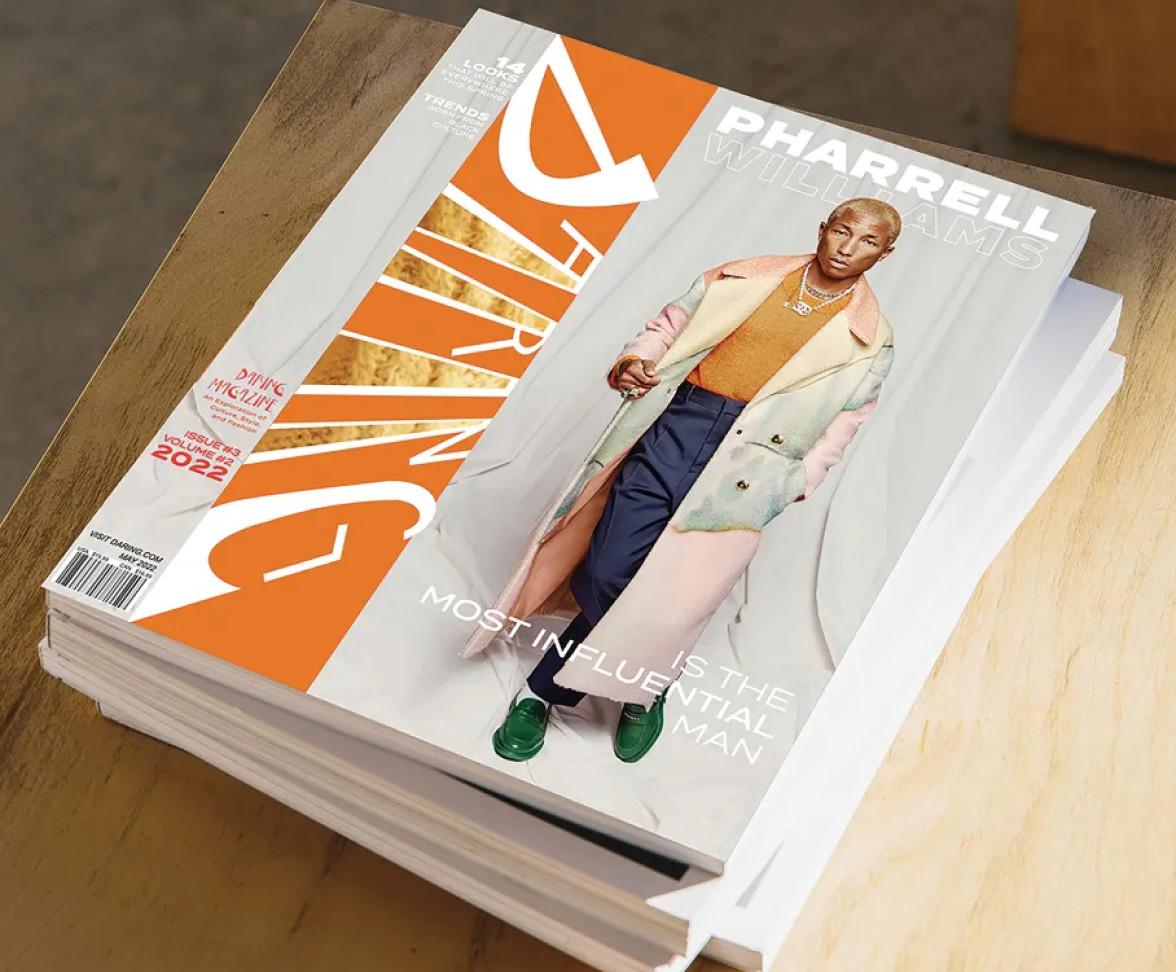
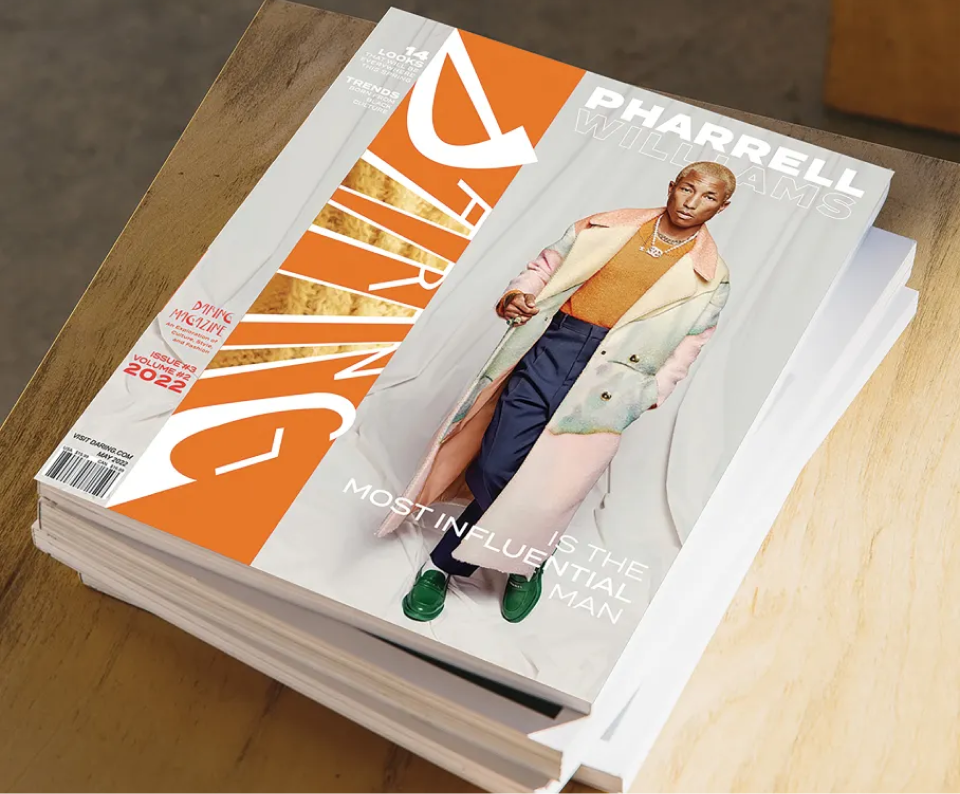
Added Daring Photos

Changed region(s): [[0.0, 0.9975, 1.0, 1.0], [0.0312, 0.5743, 0.125, 0.6348]]

diff --git a/Daring_Page.html b/Daring_Page.html
@@ -13,6 +13,23 @@
 <body>
     <h1>Daring Magazine</h1>
     <h2 class="pu-h2"> PUBLICATION DESIGN</h2>
+
+<div class="image-hero">
+        <img src="/Users/zakiyahharrison/Desktop/idm221-zrh36/images/Harrison_Z_Mag_7-2.png" alt="Hero Image" class="full-width-image">
+</div>
+
     <p>Daring Magazine is a visionary fashion publication I conceived and brought to life. Our unwavering commitment lies in spotlighting the latest and most original fashion trends, all while paying homage to the brilliant designers and the rich cultures that inspire them. With this magazine, my mission was to break the mold of traditional fashion publications, infusing it with a cutting-edge sensibility and a delightful quirkiness that sets us apart from the familiar fashion blueprint. The hallmark feature that truly distinguishes Daring Magazine is its captivating die-cut front cover.</p>
+</body>
+
+<body>
+    <div class="image-container">
+        <img src="/Users/zakiyahharrison/Desktop/idm221-zrh36/images/Harrison_Z_Mag_8-1-scaled.png" alt="Image 1">
+        <img src="/Users/zakiyahharrison/Desktop/idm221-zrh36/images/DM_Mockup4-scaled.png" alt="Image 2">
+        <img src="/Users/zakiyahharrison/Desktop/idm221-zrh36/images/DR_Mockup1-1-1.png" alt="Image 3">
+        <img src="/Users/zakiyahharrison/Desktop/idm221-zrh36/images/DM_Mockup2-scaled.png" alt="Image 4">
+        <img src="/Users/zakiyahharrison/Desktop/idm221-zrh36/images/DM_Mockup3-scaled.png" alt="Image 5">
+        <img src="/Users/zakiyahharrison/Desktop/idm221-zrh36/images/COVER-PAGES-FINAL.png" alt="Image 6">
+        <img src="/Users/zakiyahharrison/Desktop/idm221-zrh36/images/Screen-Shot-2022-10-28-at-2.18.02-PM-1.png" alt="Image 7">
+    </div>
 </body>
 </html>

diff --git a/IconicChairs_Page.html b/IconicChairs_Page.html
@@ -24,10 +24,9 @@
         <body>
             <div class="image-container">
                 <img src="/Users/zakiyahharrison/Desktop/idm221-zrh36/images/poster.png" alt="Image 1">
-                <img src="/Users/zakiyahharrison/Desktop/idm221-zrh36/images/Asset 2 copy_morris.png" alt="Image 2">
-                <img src="/Users/zakiyahharrison/Desktop/idm221-zrh36/images/Asset 4.png" alt="Image 3">
-                <img src="/Users/zakiyahharrison/Desktop/idm221-zrh36/images/Asset 1.png" alt="Image 4">
-                <img src="/Users/zakiyahharrison/Desktop/idm221-zrh36/images/Asset 2.png" alt="Image 5">
+                <img src="/Users/zakiyahharrison/Desktop/idm221-zrh36/images/Asset 4.png" alt="Image 2">
+                <img src="/Users/zakiyahharrison/Desktop/idm221-zrh36/images/Asset 1.png" alt="Image 3">
+                <img src="/Users/zakiyahharrison/Desktop/idm221-zrh36/images/Asset 2.png" alt="Image 4">
             
             </div>
         </body>
